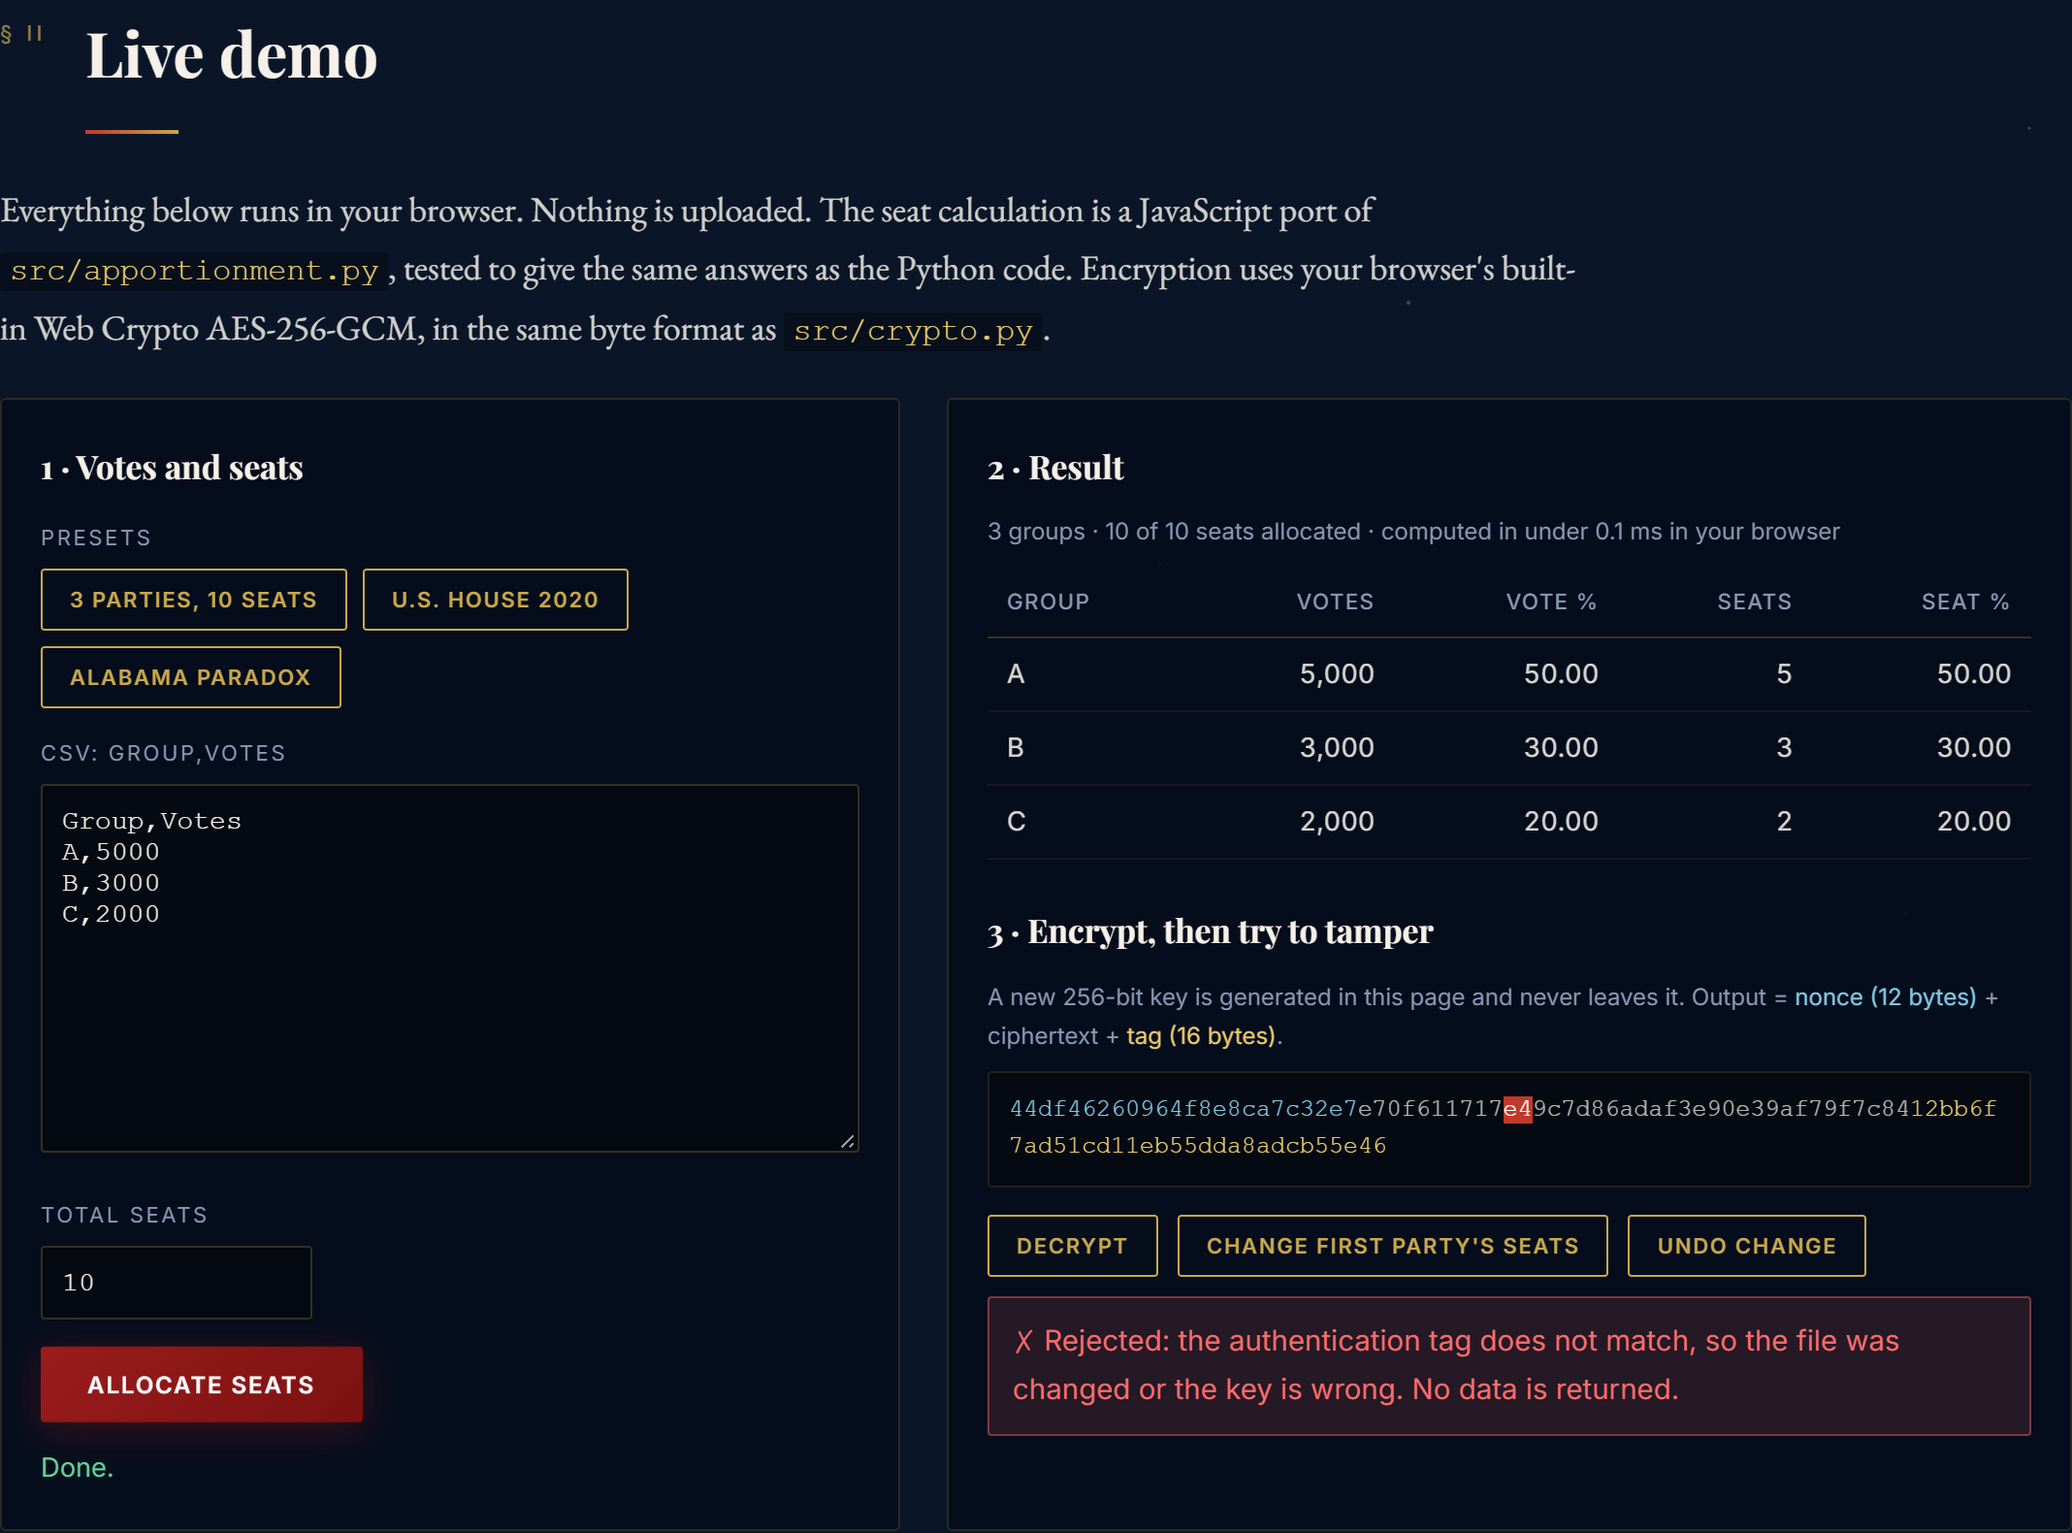
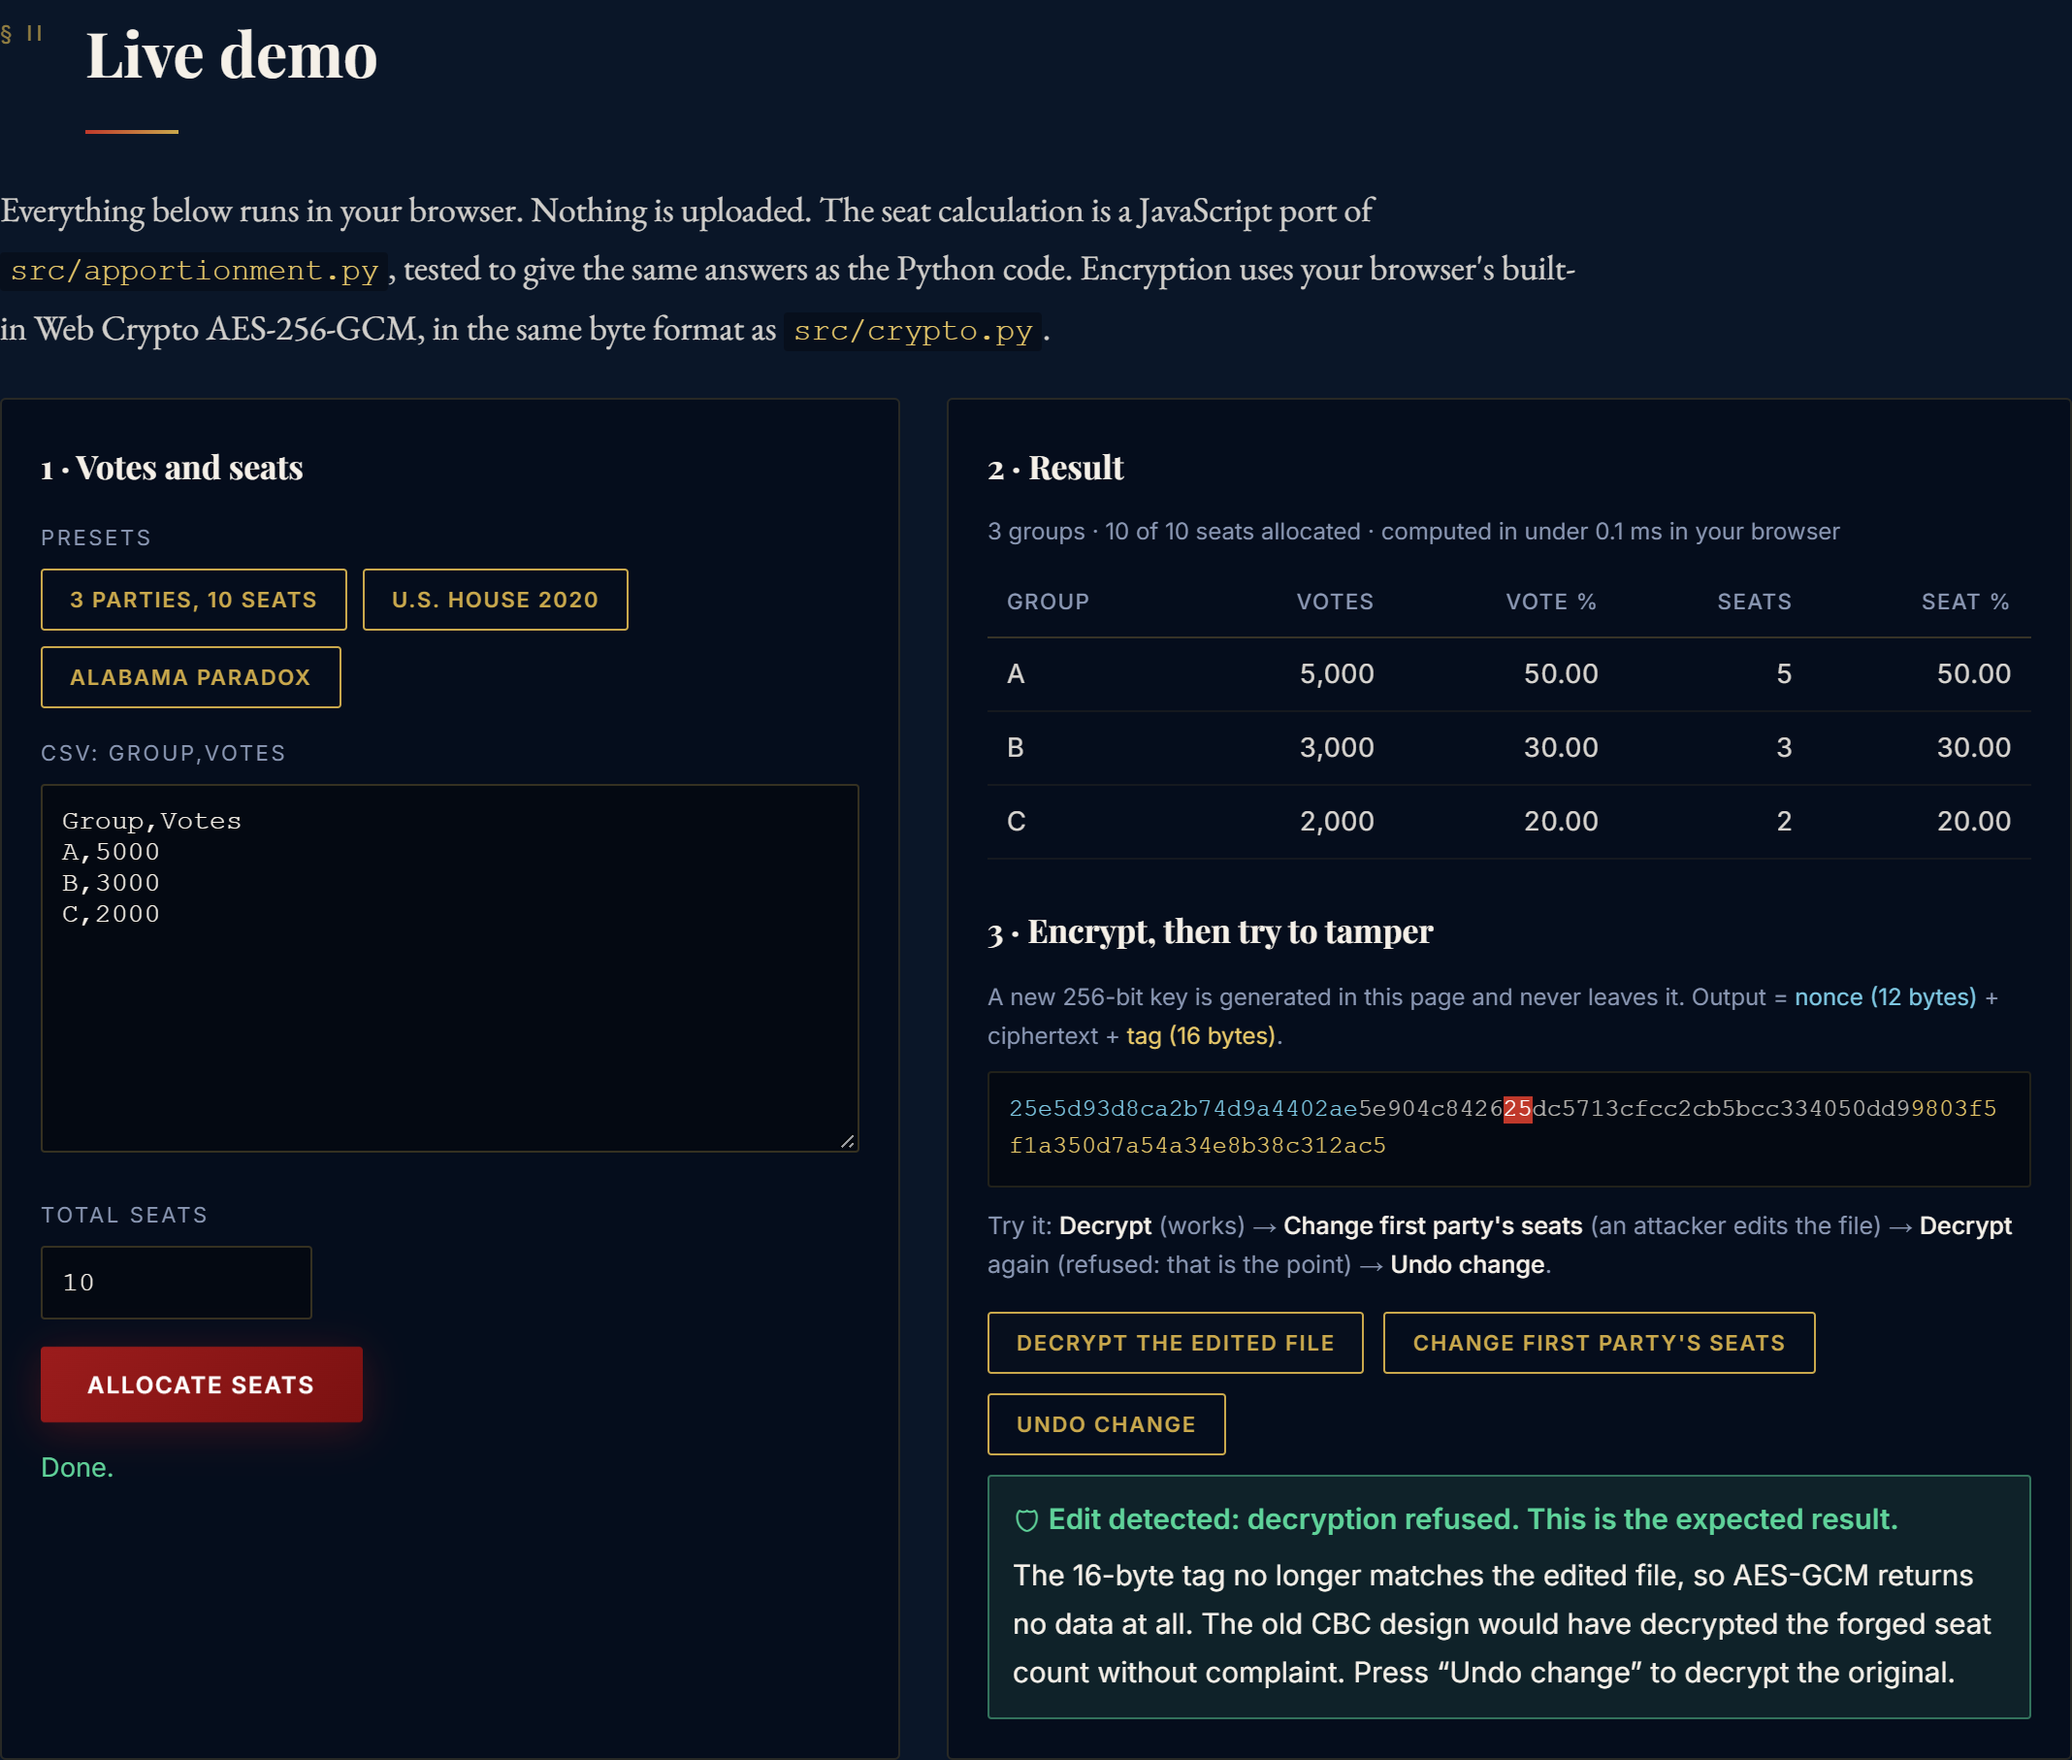
Demo: make the expected tamper rejection read as success, not an error
After 'Change first party's seats', Decrypt is refused by design, but the
red error styling made it look broken. Add step-by-step instructions,
relabel the button, show the refusal as 'Edit detected', and give a real
(unexpected) decryption failure its own message.

diff --git a/index.html b/index.html
@@ -140,6 +140,12 @@
   .verdict{font-family:'Inter',sans-serif;font-size:.92rem;padding:10px 12px;border-radius:2px;margin-top:10px;}
   .verdict.ok{background:rgba(95,211,154,.12);border:1px solid rgba(95,211,154,.4);color:var(--ok);}
   .verdict.bad{background:rgba(255,107,107,.12);border:1px solid rgba(255,107,107,.4);color:var(--bad);}
+  .verdict.warn{background:rgba(232,201,106,.10);border:1px solid rgba(232,201,106,.45);color:var(--gold2);}
+  .verdict.blocked{background:rgba(95,211,154,.10);border:1px solid rgba(95,211,154,.45);color:var(--cream);}
+  .verdict strong{display:block;margin-bottom:4px;}
+  .verdict.blocked strong{color:var(--ok);}
+  .steps{font-family:'Inter',sans-serif;font-size:.78rem;color:var(--muted);margin-top:10px;line-height:1.6;}
+  .steps b{color:var(--cream);font-weight:500;}
   .match{color:var(--ok);} .mismatch{color:var(--bad);}
   .legend{font-family:'Inter',sans-serif;font-size:.75rem;color:var(--muted);margin-top:6px;}
   .hidden{display:none !important;}
@@ -242,6 +248,7 @@
         <h3 style="margin-top:22px;">3 · Encrypt, then try to tamper</h3>
         <div class="legend">A new 256-bit key is generated in this page and never leaves it. Output = <span style="color:#7ec8e3">nonce (12 bytes)</span> + ciphertext + <span style="color:var(--gold2)">tag (16 bytes)</span>.</div>
         <div class="hex" id="hexOut">—</div>
+        <div class="steps">Try it: <b>Decrypt</b> (works) → <b>Change first party's seats</b> (an attacker edits the file) → <b>Decrypt</b> again (refused: that is the point) → <b>Undo change</b>.</div>
         <div class="row">
           <button class="btn btn-outline btn-small" id="decryptBtn" type="button" disabled>Decrypt</button>
           <button class="btn btn-outline btn-small" id="tamperBtn" type="button" disabled>Change first party's seats</button>
@@ -473,6 +480,12 @@ if (typeof module !== 'undefined') module.exports = ApportionCore;
   var subtle = window.crypto && window.crypto.subtle;
 
   function setMsg(el, text, cls) { el.textContent = text; el.className = (el.id === 'verdict' ? 'verdict ' : 'msg ') + (cls || ''); }
+  function showVerdict(title, body, cls) {
+    verdict.textContent = '';
+    var t = document.createElement('strong'); t.textContent = title; verdict.appendChild(t);
+    verdict.appendChild(document.createTextNode(body));
+    verdict.className = 'verdict ' + cls;
+  }
   function cell(tr, text, cls) { var td = document.createElement('td'); td.textContent = text; if (cls) td.className = cls; tr.appendChild(td); return td; }
 
   function loadPreset(name) {
@@ -535,6 +548,7 @@ if (typeof module !== 'undefined') module.exports = ApportionCore;
     state.tampered = -1;
     renderHex();
     decryptBtn.disabled = false; tamperBtn.disabled = false; resetBtn.disabled = true;
+    decryptBtn.textContent = 'Decrypt';
     verdict.classList.add('hidden');
   }
 
@@ -563,11 +577,17 @@ if (typeof module !== 'undefined') module.exports = ApportionCore;
       var b = state.current;
       var pt = await subtle.decrypt({ name: 'AES-GCM', iv: b.slice(0, 12) }, state.key, b.slice(12));
       var text = new TextDecoder().decode(pt);
-      setMsg(verdict, '✓ Tag verified. Decrypted: ' + (text.length > 160 ? text.slice(0, 160) + '…' : text), 'ok');
+      showVerdict('✓ Tag verified: the file is unchanged.', 'Decrypted: ' + (text.length > 160 ? text.slice(0, 160) + '…' : text), 'ok');
     } catch (e) {
-      setMsg(verdict, '✗ Rejected: the authentication tag does not match, so the file was changed or the key is wrong. No data is returned.', 'bad');
+      if (state.tampered >= 0) {
+        showVerdict('🛡 Edit detected: decryption refused. This is the expected result.',
+          'The 16-byte tag no longer matches the edited file, so AES-GCM returns no data at all. ' +
+          'The old CBC design would have decrypted the forged seat count without complaint. Press “Undo change” to decrypt the original.', 'blocked');
+      } else {
+        showVerdict('✗ Decryption failed unexpectedly.',
+          'The file was not edited, so this should not happen (' + (e && e.name || 'error') + '). Press “Allocate seats” to make a new key and file, and please report your browser if it repeats.', 'bad');
+      }
     }
-    verdict.classList.remove('hidden');
   }
 
   // GCM encrypts like a stream cipher: byte i of the ciphertext lines up with byte i of
@@ -582,9 +602,10 @@ if (typeof module !== 'undefined') module.exports = ApportionCore;
     state.tampered = 12 + pos;
     renderHex();
     resetBtn.disabled = false;
-    setMsg(verdict, 'Changed ciphertext byte ' + (12 + pos) + ' so the first group\'s seats would read ' +
-      String.fromCharCode(to) + m[1].slice(1) + ' instead of ' + m[1] + '. Now press Decrypt.', 'bad');
-    verdict.classList.remove('hidden');
+    decryptBtn.textContent = 'Decrypt the edited file';
+    showVerdict('You played the attacker: byte ' + (12 + pos) + ' (red) is changed.',
+      'Without the key, the first group\'s seats would now read ' + String.fromCharCode(to) + m[1].slice(1) +
+      ' instead of ' + m[1] + '. Press “Decrypt the edited file” to see whether GCM notices.', 'warn');
   }
 
   function reset() {
@@ -592,6 +613,7 @@ if (typeof module !== 'undefined') module.exports = ApportionCore;
     state.tampered = -1;
     renderHex();
     resetBtn.disabled = true;
+    decryptBtn.textContent = 'Decrypt';
     verdict.classList.add('hidden');
   }
 

diff --git a/public/index.html b/public/index.html
@@ -140,6 +140,12 @@
   .verdict{font-family:'Inter',sans-serif;font-size:.92rem;padding:10px 12px;border-radius:2px;margin-top:10px;}
   .verdict.ok{background:rgba(95,211,154,.12);border:1px solid rgba(95,211,154,.4);color:var(--ok);}
   .verdict.bad{background:rgba(255,107,107,.12);border:1px solid rgba(255,107,107,.4);color:var(--bad);}
+  .verdict.warn{background:rgba(232,201,106,.10);border:1px solid rgba(232,201,106,.45);color:var(--gold2);}
+  .verdict.blocked{background:rgba(95,211,154,.10);border:1px solid rgba(95,211,154,.45);color:var(--cream);}
+  .verdict strong{display:block;margin-bottom:4px;}
+  .verdict.blocked strong{color:var(--ok);}
+  .steps{font-family:'Inter',sans-serif;font-size:.78rem;color:var(--muted);margin-top:10px;line-height:1.6;}
+  .steps b{color:var(--cream);font-weight:500;}
   .match{color:var(--ok);} .mismatch{color:var(--bad);}
   .legend{font-family:'Inter',sans-serif;font-size:.75rem;color:var(--muted);margin-top:6px;}
   .hidden{display:none !important;}
@@ -242,6 +248,7 @@
         <h3 style="margin-top:22px;">3 · Encrypt, then try to tamper</h3>
         <div class="legend">A new 256-bit key is generated in this page and never leaves it. Output = <span style="color:#7ec8e3">nonce (12 bytes)</span> + ciphertext + <span style="color:var(--gold2)">tag (16 bytes)</span>.</div>
         <div class="hex" id="hexOut">—</div>
+        <div class="steps">Try it: <b>Decrypt</b> (works) → <b>Change first party's seats</b> (an attacker edits the file) → <b>Decrypt</b> again (refused: that is the point) → <b>Undo change</b>.</div>
         <div class="row">
           <button class="btn btn-outline btn-small" id="decryptBtn" type="button" disabled>Decrypt</button>
           <button class="btn btn-outline btn-small" id="tamperBtn" type="button" disabled>Change first party's seats</button>
@@ -473,6 +480,12 @@ if (typeof module !== 'undefined') module.exports = ApportionCore;
   var subtle = window.crypto && window.crypto.subtle;
 
   function setMsg(el, text, cls) { el.textContent = text; el.className = (el.id === 'verdict' ? 'verdict ' : 'msg ') + (cls || ''); }
+  function showVerdict(title, body, cls) {
+    verdict.textContent = '';
+    var t = document.createElement('strong'); t.textContent = title; verdict.appendChild(t);
+    verdict.appendChild(document.createTextNode(body));
+    verdict.className = 'verdict ' + cls;
+  }
   function cell(tr, text, cls) { var td = document.createElement('td'); td.textContent = text; if (cls) td.className = cls; tr.appendChild(td); return td; }
 
   function loadPreset(name) {
@@ -535,6 +548,7 @@ if (typeof module !== 'undefined') module.exports = ApportionCore;
     state.tampered = -1;
     renderHex();
     decryptBtn.disabled = false; tamperBtn.disabled = false; resetBtn.disabled = true;
+    decryptBtn.textContent = 'Decrypt';
     verdict.classList.add('hidden');
   }
 
@@ -563,11 +577,17 @@ if (typeof module !== 'undefined') module.exports = ApportionCore;
       var b = state.current;
       var pt = await subtle.decrypt({ name: 'AES-GCM', iv: b.slice(0, 12) }, state.key, b.slice(12));
       var text = new TextDecoder().decode(pt);
-      setMsg(verdict, '✓ Tag verified. Decrypted: ' + (text.length > 160 ? text.slice(0, 160) + '…' : text), 'ok');
+      showVerdict('✓ Tag verified: the file is unchanged.', 'Decrypted: ' + (text.length > 160 ? text.slice(0, 160) + '…' : text), 'ok');
     } catch (e) {
-      setMsg(verdict, '✗ Rejected: the authentication tag does not match, so the file was changed or the key is wrong. No data is returned.', 'bad');
+      if (state.tampered >= 0) {
+        showVerdict('🛡 Edit detected: decryption refused. This is the expected result.',
+          'The 16-byte tag no longer matches the edited file, so AES-GCM returns no data at all. ' +
+          'The old CBC design would have decrypted the forged seat count without complaint. Press “Undo change” to decrypt the original.', 'blocked');
+      } else {
+        showVerdict('✗ Decryption failed unexpectedly.',
+          'The file was not edited, so this should not happen (' + (e && e.name || 'error') + '). Press “Allocate seats” to make a new key and file, and please report your browser if it repeats.', 'bad');
+      }
     }
-    verdict.classList.remove('hidden');
   }
 
   // GCM encrypts like a stream cipher: byte i of the ciphertext lines up with byte i of
@@ -582,9 +602,10 @@ if (typeof module !== 'undefined') module.exports = ApportionCore;
     state.tampered = 12 + pos;
     renderHex();
     resetBtn.disabled = false;
-    setMsg(verdict, 'Changed ciphertext byte ' + (12 + pos) + ' so the first group\'s seats would read ' +
-      String.fromCharCode(to) + m[1].slice(1) + ' instead of ' + m[1] + '. Now press Decrypt.', 'bad');
-    verdict.classList.remove('hidden');
+    decryptBtn.textContent = 'Decrypt the edited file';
+    showVerdict('You played the attacker: byte ' + (12 + pos) + ' (red) is changed.',
+      'Without the key, the first group\'s seats would now read ' + String.fromCharCode(to) + m[1].slice(1) +
+      ' instead of ' + m[1] + '. Press “Decrypt the edited file” to see whether GCM notices.', 'warn');
   }
 
   function reset() {
@@ -592,6 +613,7 @@ if (typeof module !== 'undefined') module.exports = ApportionCore;
     state.tampered = -1;
     renderHex();
     resetBtn.disabled = true;
+    decryptBtn.textContent = 'Decrypt';
     verdict.classList.add('hidden');
   }
 
